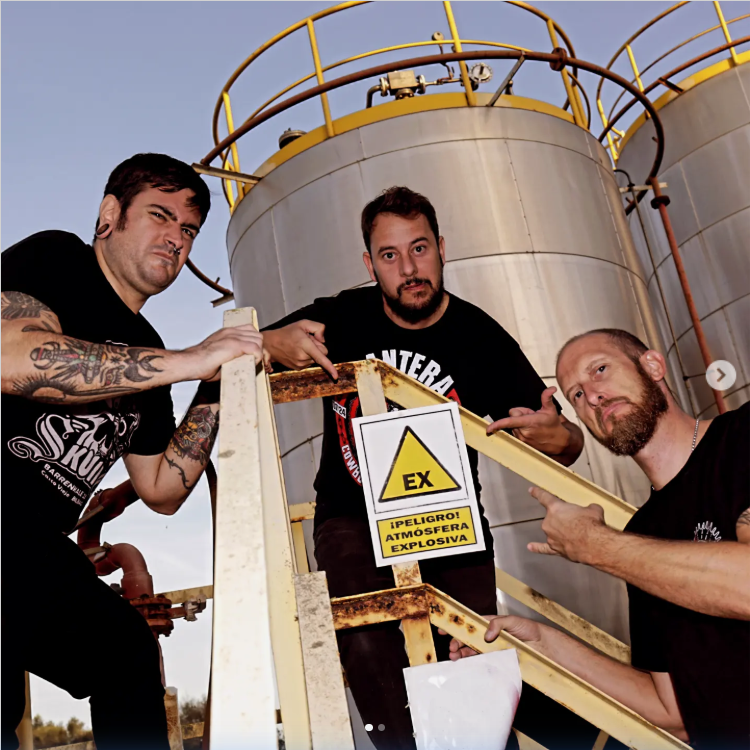
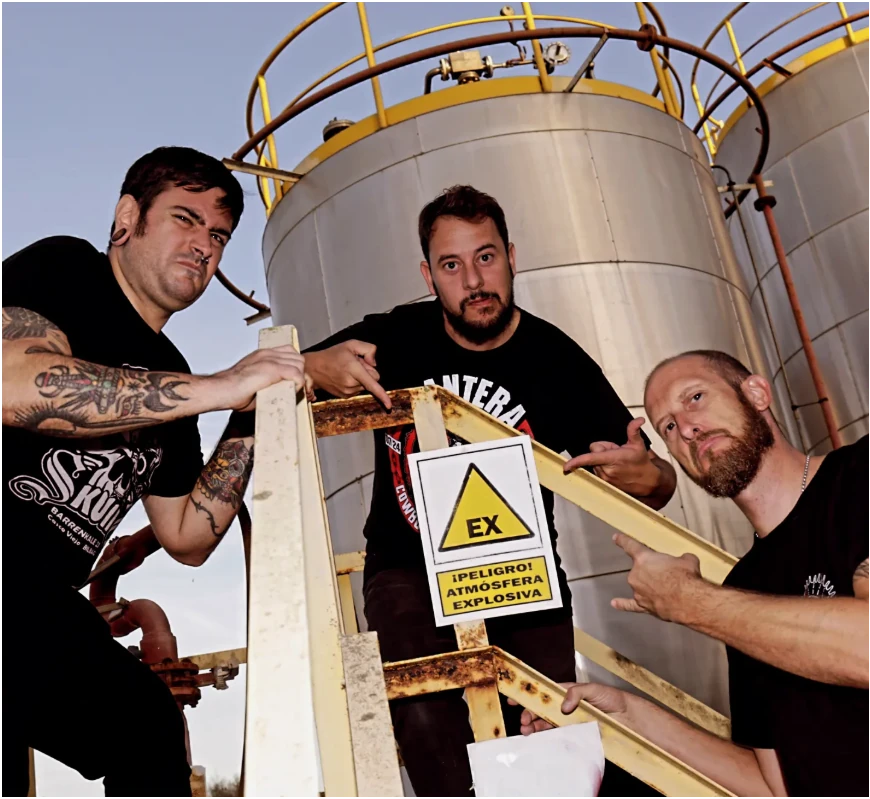
vulgar chaos

diff --git a/src/pages/NitDeRock.jsx b/src/pages/NitDeRock.jsx
@@ -53,7 +53,7 @@ export default function NitDeRock() {
     };
   }, []);
 
-  const IS_MAINTENANCE = true;
+  const IS_MAINTENANCE = false;
 
   if (IS_MAINTENANCE) {
     return (
@@ -64,11 +64,11 @@ export default function NitDeRock() {
           canonicalPath="/nit-de-rock"
         />
         <Navbar />
-        <main className="nit-de-rock-page maintenance-page" style={{ 
-          minHeight: "80vh", 
-          display: "flex", 
+        <main className="nit-de-rock-page maintenance-page" style={{
+          minHeight: "80vh",
+          display: "flex",
           flexDirection: "column",
-          justifyContent: "center", 
+          justifyContent: "center",
           alignItems: "center",
           padding: "2rem"
         }}>
@@ -89,7 +89,7 @@ export default function NitDeRock() {
                 Estem tenint uns petits problemes tècnics amb la plataforma. <br />
                 <strong>Ja estem treballant per solucionar-ho!</strong>
               </p>
-              <div className="maintenance-status" style={{ 
+              <div className="maintenance-status" style={{
                 display: "inline-block",
                 padding: "0.5rem 1.5rem",
                 background: "rgba(255, 193, 7, 0.1)",
@@ -181,17 +181,17 @@ export default function NitDeRock() {
             </p>
 
             <div className="voting-container">
-                <iframe
-                  className="voting-iframe"
-                  title="Votació Semifinal"
-                  src="https://docs.google.com/forms/d/e/1FAIpQLSerqOapn0DbzIdgVU3ABAVYqz6HTaObUtoWF0afufoCedtJ_w/viewform?embedded=true"
-                  width="100%"
-                  frameBorder="0"
-                  marginHeight="0"
-                  marginWidth="0"
-                >
-                  S'està carregant…
-                </iframe>
+              <iframe
+                className="voting-iframe"
+                title="Votació Semifinal"
+                src="https://docs.google.com/forms/d/e/1FAIpQLSerqOapn0DbzIdgVU3ABAVYqz6HTaObUtoWF0afufoCedtJ_w/viewform?embedded=true"
+                width="100%"
+                frameBorder="0"
+                marginHeight="0"
+                marginWidth="0"
+              >
+                S'està carregant…
+              </iframe>
             </div>
           </div>
         </section>
